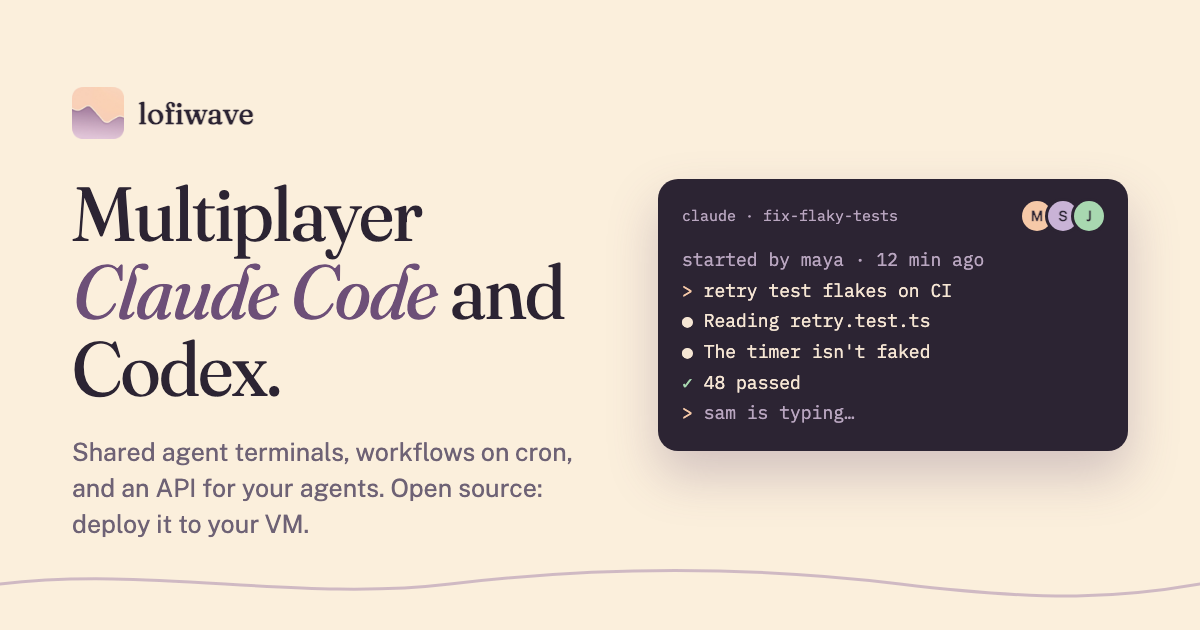
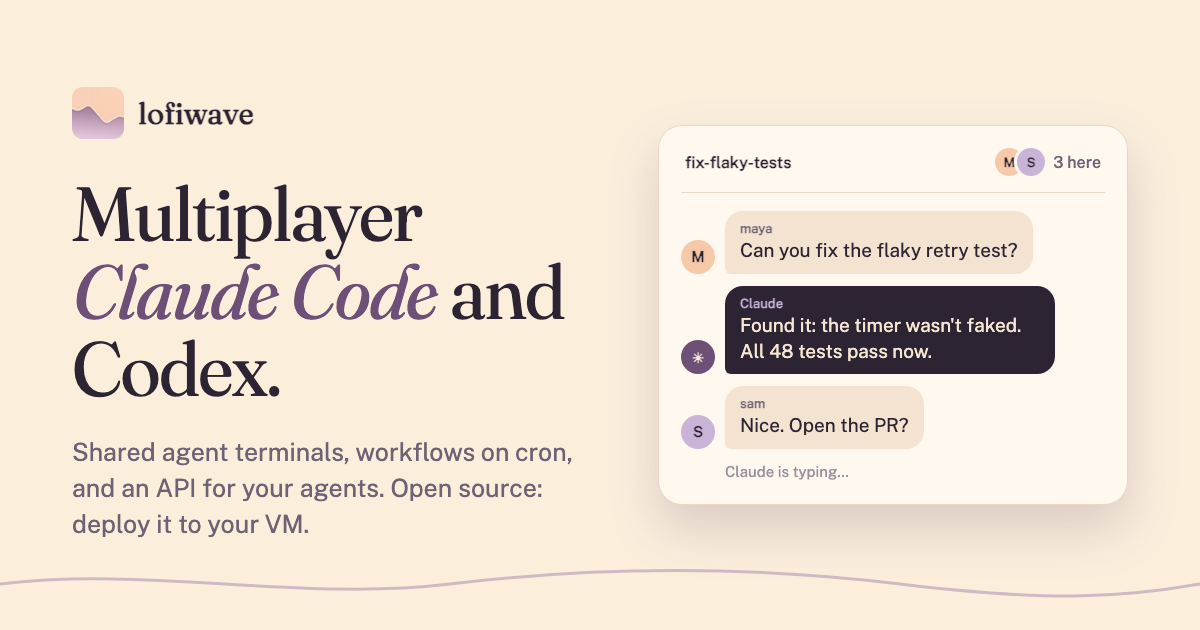
lofiwave social image: a team chat with Claude instead of a terminal

Changed region(s): [[0.5242, 0.2111, 0.9558, 0.8143]]

diff --git a/apps/lofiwave/landing/index.html b/apps/lofiwave/landing/index.html
@@ -7,16 +7,16 @@
 <meta name="description" content="Multiplayer Claude Code and Codex: share live agent terminals with your team, share workflows that launch on cron, and manage your cloud agents from your home agent over an API. Open source, self-hosted.">
 <meta property="og:title" content="lofiwave — multiplayer Claude Code and Codex">
 <meta property="og:description" content="Shared agent terminals, workflows on cron, and an API so your home agent can run your cloud agents. Open source; runs on Bun and SQLite.">
-<meta property="og:image" content="https://lofiwave-7wy.pages.dev/og.png">
+<meta property="og:image" content="https://lofiwave-7wy.pages.dev/og.png?v=2">
 <meta property="og:image:width" content="1200">
 <meta property="og:image:height" content="630">
-<meta property="og:image:alt" content="lofiwave: multiplayer Claude Code and Codex, with a shared agent terminal three people are watching">
+<meta property="og:image:alt" content="lofiwave: multiplayer Claude Code and Codex, with a team chatting with Claude in a shared session">
 <meta property="og:url" content="https://lofiwave-7wy.pages.dev/">
 <meta property="og:type" content="website">
 <meta name="twitter:card" content="summary_large_image">
 <meta name="twitter:title" content="lofiwave — multiplayer Claude Code and Codex">
 <meta name="twitter:description" content="Shared agent terminals, workflows on cron, and an API so your home agent can run your cloud agents. Open source; deploy it to your VM.">
-<meta name="twitter:image" content="https://lofiwave-7wy.pages.dev/og.png">
+<meta name="twitter:image" content="https://lofiwave-7wy.pages.dev/og.png?v=2">
 <link rel="icon" type="image/png" href="favicon.png">
 <link rel="apple-touch-icon" href="logo.png">
 <link rel="preconnect" href="https://fonts.googleapis.com">
